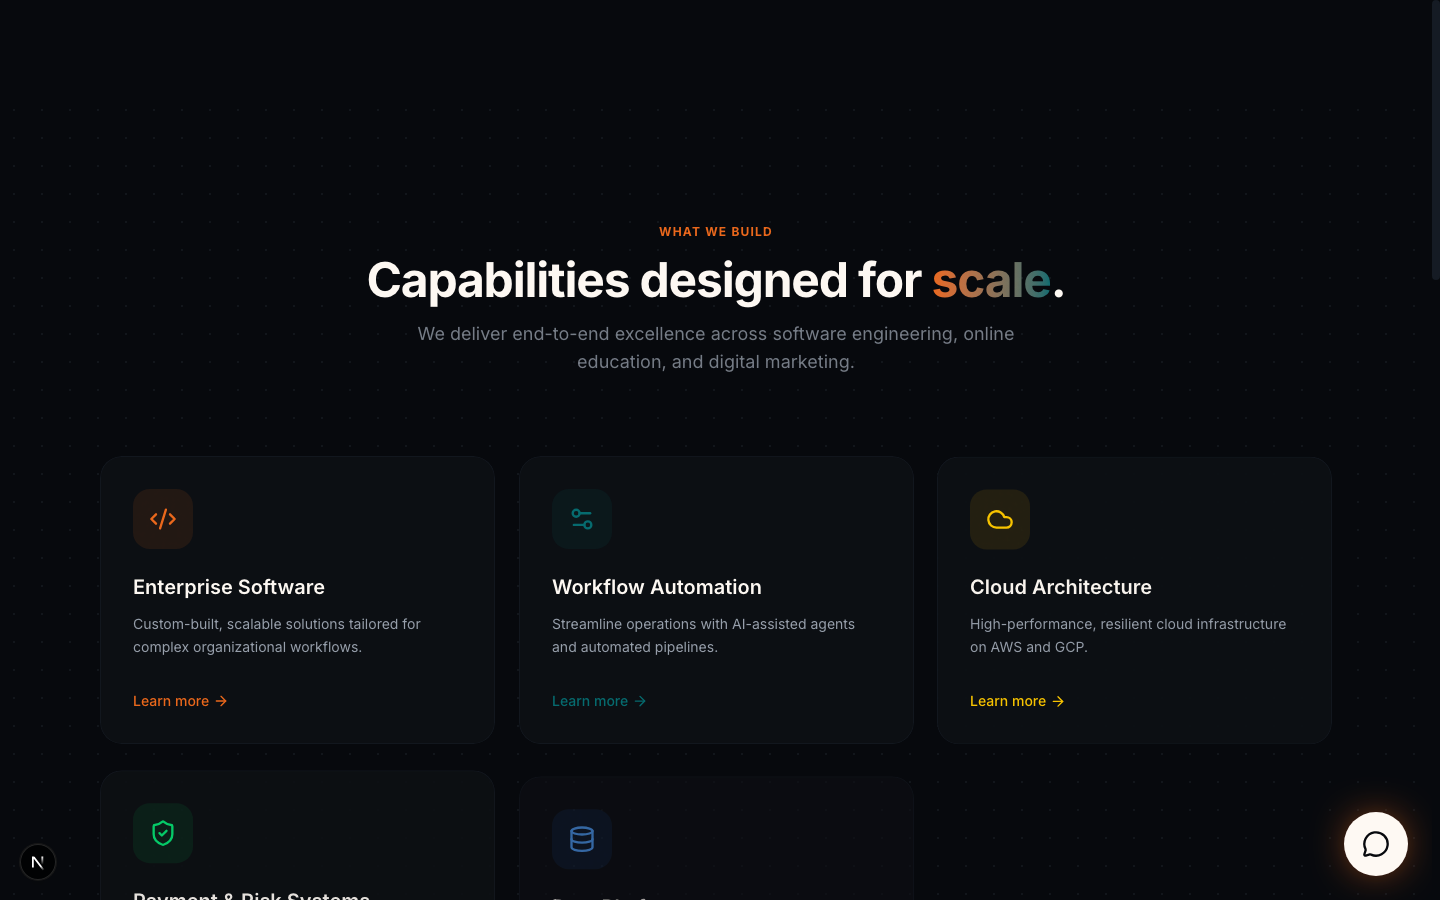
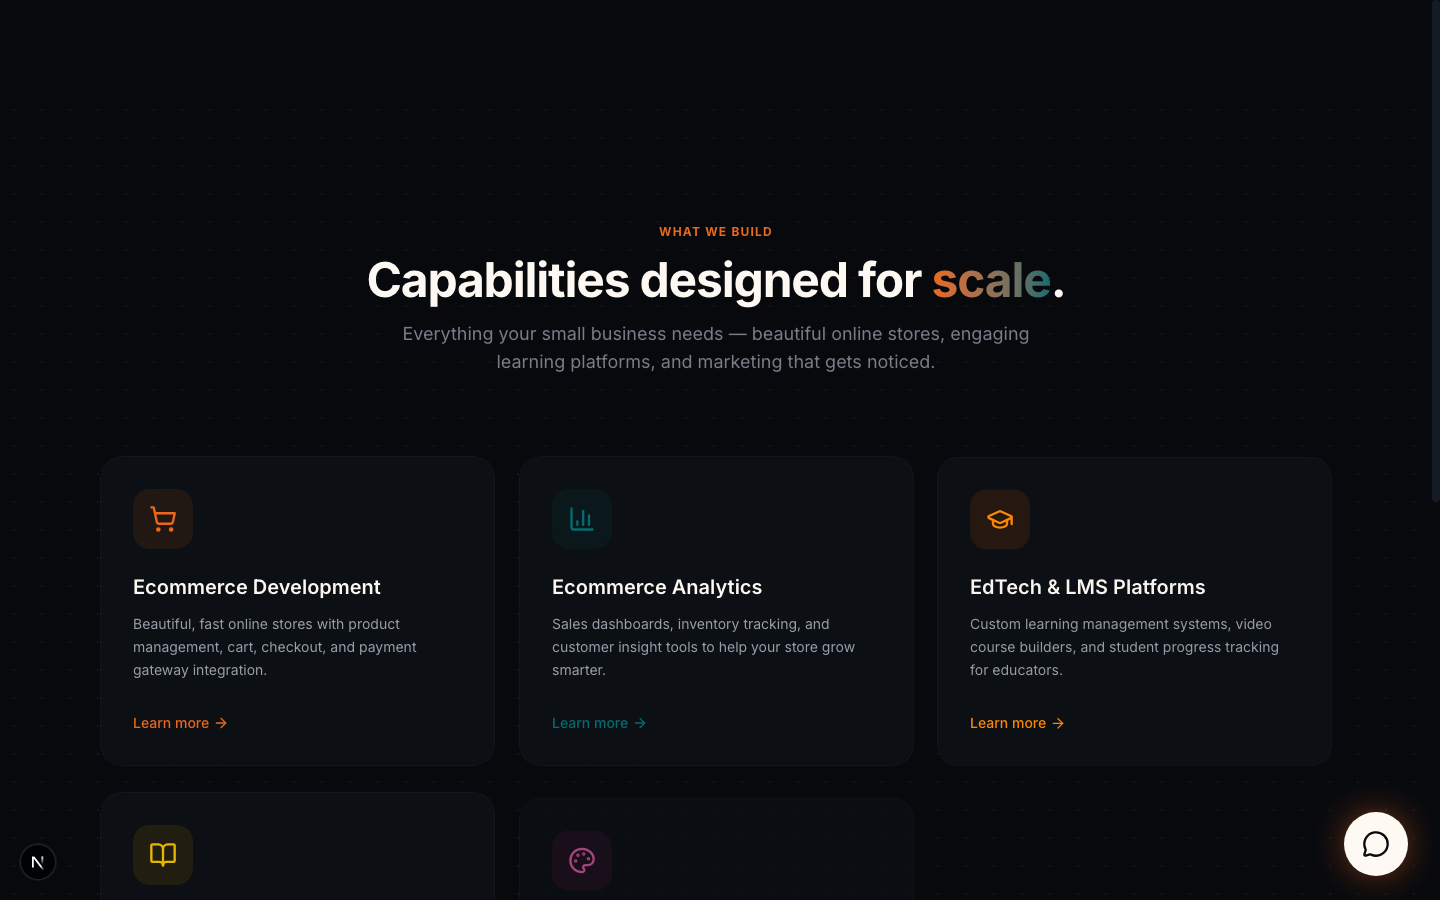
feat: refocus services on Ecommerce, EdTech, and Branding/Marketing
Replaced 9 generic enterprise services with 6 focused offerings:
- Ecommerce Development + Analytics
- EdTech & LMS Platforms + Online Course Tools
- Brand Identity & Design + Digital Marketing & SEO

Updated EN/Tamil translations and services screenshot.

diff --git a/src/components/sections/ServicesSection.tsx b/src/components/sections/ServicesSection.tsx
@@ -3,20 +3,17 @@
 import { useRef, useState } from "react";
 import { motion } from "framer-motion";
 import { FadeIn, StaggerContainer, StaggerItem } from "@/components/ui/motion";
-import { Code2, Settings2, CloudIcon, ShieldCheck, Database, LayoutTemplate, GraduationCap, Megaphone, TrendingUp, ArrowRight } from "lucide-react";
+import { ShoppingCart, BarChart3, GraduationCap, BookOpen, Palette, Megaphone, ArrowRight } from "lucide-react";
 import { useTranslations } from "next-intl";
 import { scrollToSection } from "@/lib/utils";
 
 const serviceConfig = [
-  { icon: Code2,        color: "text-primary",    glow: "from-primary/20",    border: "group-hover:border-primary/50",    bg: "bg-primary/10"    },
-  { icon: Settings2,    color: "text-accent",      glow: "from-accent/20",     border: "group-hover:border-accent/50",     bg: "bg-accent/10"     },
-  { icon: CloudIcon,    color: "text-yellow-400",  glow: "from-yellow-500/20", border: "group-hover:border-yellow-500/50", bg: "bg-yellow-500/10" },
-  { icon: ShieldCheck,  color: "text-green-400",   glow: "from-green-500/20",  border: "group-hover:border-green-500/50",  bg: "bg-green-500/10"  },
-  { icon: Database,     color: "text-blue-400",    glow: "from-blue-500/20",   border: "group-hover:border-blue-500/50",   bg: "bg-blue-500/10"   },
-  { icon: LayoutTemplate,  color: "text-purple-400",  glow: "from-purple-500/20",  border: "group-hover:border-purple-500/50",  bg: "bg-purple-500/10"  },
-  { icon: GraduationCap,  color: "text-orange-400",  glow: "from-orange-500/20",  border: "group-hover:border-orange-500/50",  bg: "bg-orange-500/10"  },
-  { icon: Megaphone,      color: "text-pink-400",    glow: "from-pink-500/20",    border: "group-hover:border-pink-500/50",    bg: "bg-pink-500/10"    },
-  { icon: TrendingUp,     color: "text-teal-400",    glow: "from-teal-500/20",    border: "group-hover:border-teal-500/50",    bg: "bg-teal-500/10"    },
+  { icon: ShoppingCart,  color: "text-primary",    glow: "from-primary/20",    border: "group-hover:border-primary/50",    bg: "bg-primary/10"    },
+  { icon: BarChart3,     color: "text-accent",     glow: "from-accent/20",     border: "group-hover:border-accent/50",     bg: "bg-accent/10"     },
+  { icon: GraduationCap, color: "text-orange-400", glow: "from-orange-500/20", border: "group-hover:border-orange-500/50", bg: "bg-orange-500/10" },
+  { icon: BookOpen,      color: "text-yellow-400", glow: "from-yellow-500/20", border: "group-hover:border-yellow-500/50", bg: "bg-yellow-500/10" },
+  { icon: Palette,       color: "text-pink-400",   glow: "from-pink-500/20",   border: "group-hover:border-pink-500/50",   bg: "bg-pink-500/10"   },
+  { icon: Megaphone,     color: "text-teal-400",   glow: "from-teal-500/20",   border: "group-hover:border-teal-500/50",   bg: "bg-teal-500/10"   },
 ];
 
 function TiltCard({ children, className }: { children: React.ReactNode; className?: string }) {